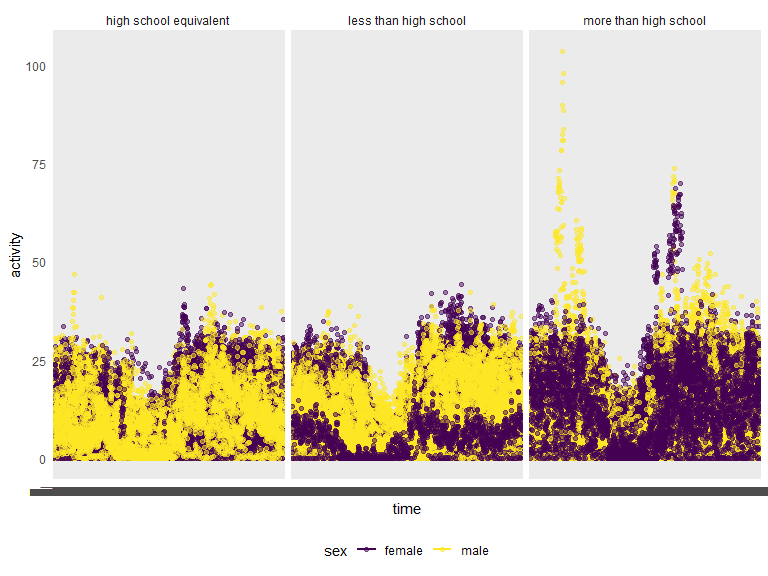
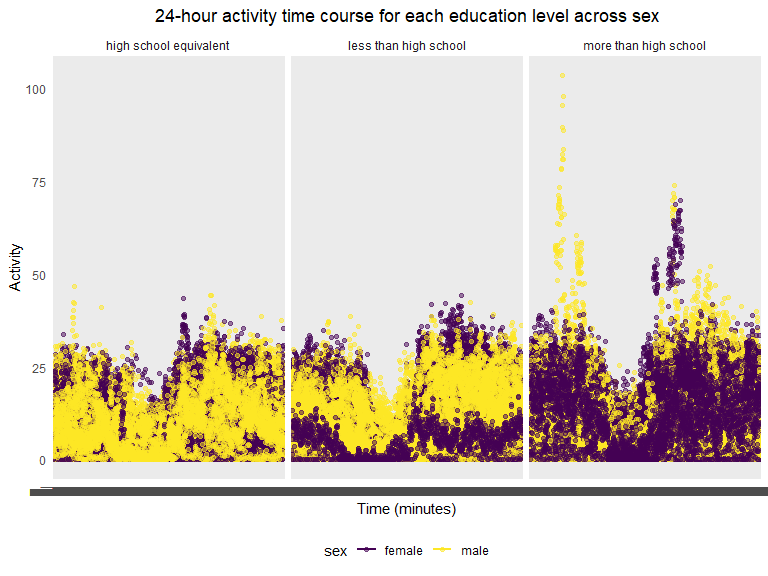
Formatting

diff --git a/p8105_hw3_qra2000.md b/p8105_hw3_qra2000.md
@@ -251,7 +251,12 @@ brfss_smart2010_clean |>
   select(year, state, county, response, data_value) |> 
   ggplot(aes(x = response, y = data_value, color = response)) +
   geom_boxplot() +
-  facet_grid(.~ year)
+  facet_grid(.~ year) +
+  labs(
+    title = "Distribution of data_value in NY State",
+    x = "Response",
+    y = "data_value") +
+  theme(plot.title = element_text(hjust = 0.5))
 ```
 
 <img src="p8105_hw3_qra2000_files/figure-gfm/unnamed-chunk-10-1.png" width="90%" />
@@ -407,7 +412,12 @@ nhanes_data |>
   ggplot(aes(x = time, y = activity, color = sex)) +
   geom_point(alpha = .5) +
   geom_smooth(se = FALSE) +
-  facet_grid(.~ education)
+  facet_grid(.~ education) +
+  labs(
+    title = "24-hour activity time course for each education level across sex",
+    x = "Time (minutes)",
+    y = "Activity") +
+  theme(plot.title = element_text(hjust = 0.5))
 ```
 
     ## `geom_smooth()` using method = 'loess' and formula = 'y ~ x'
